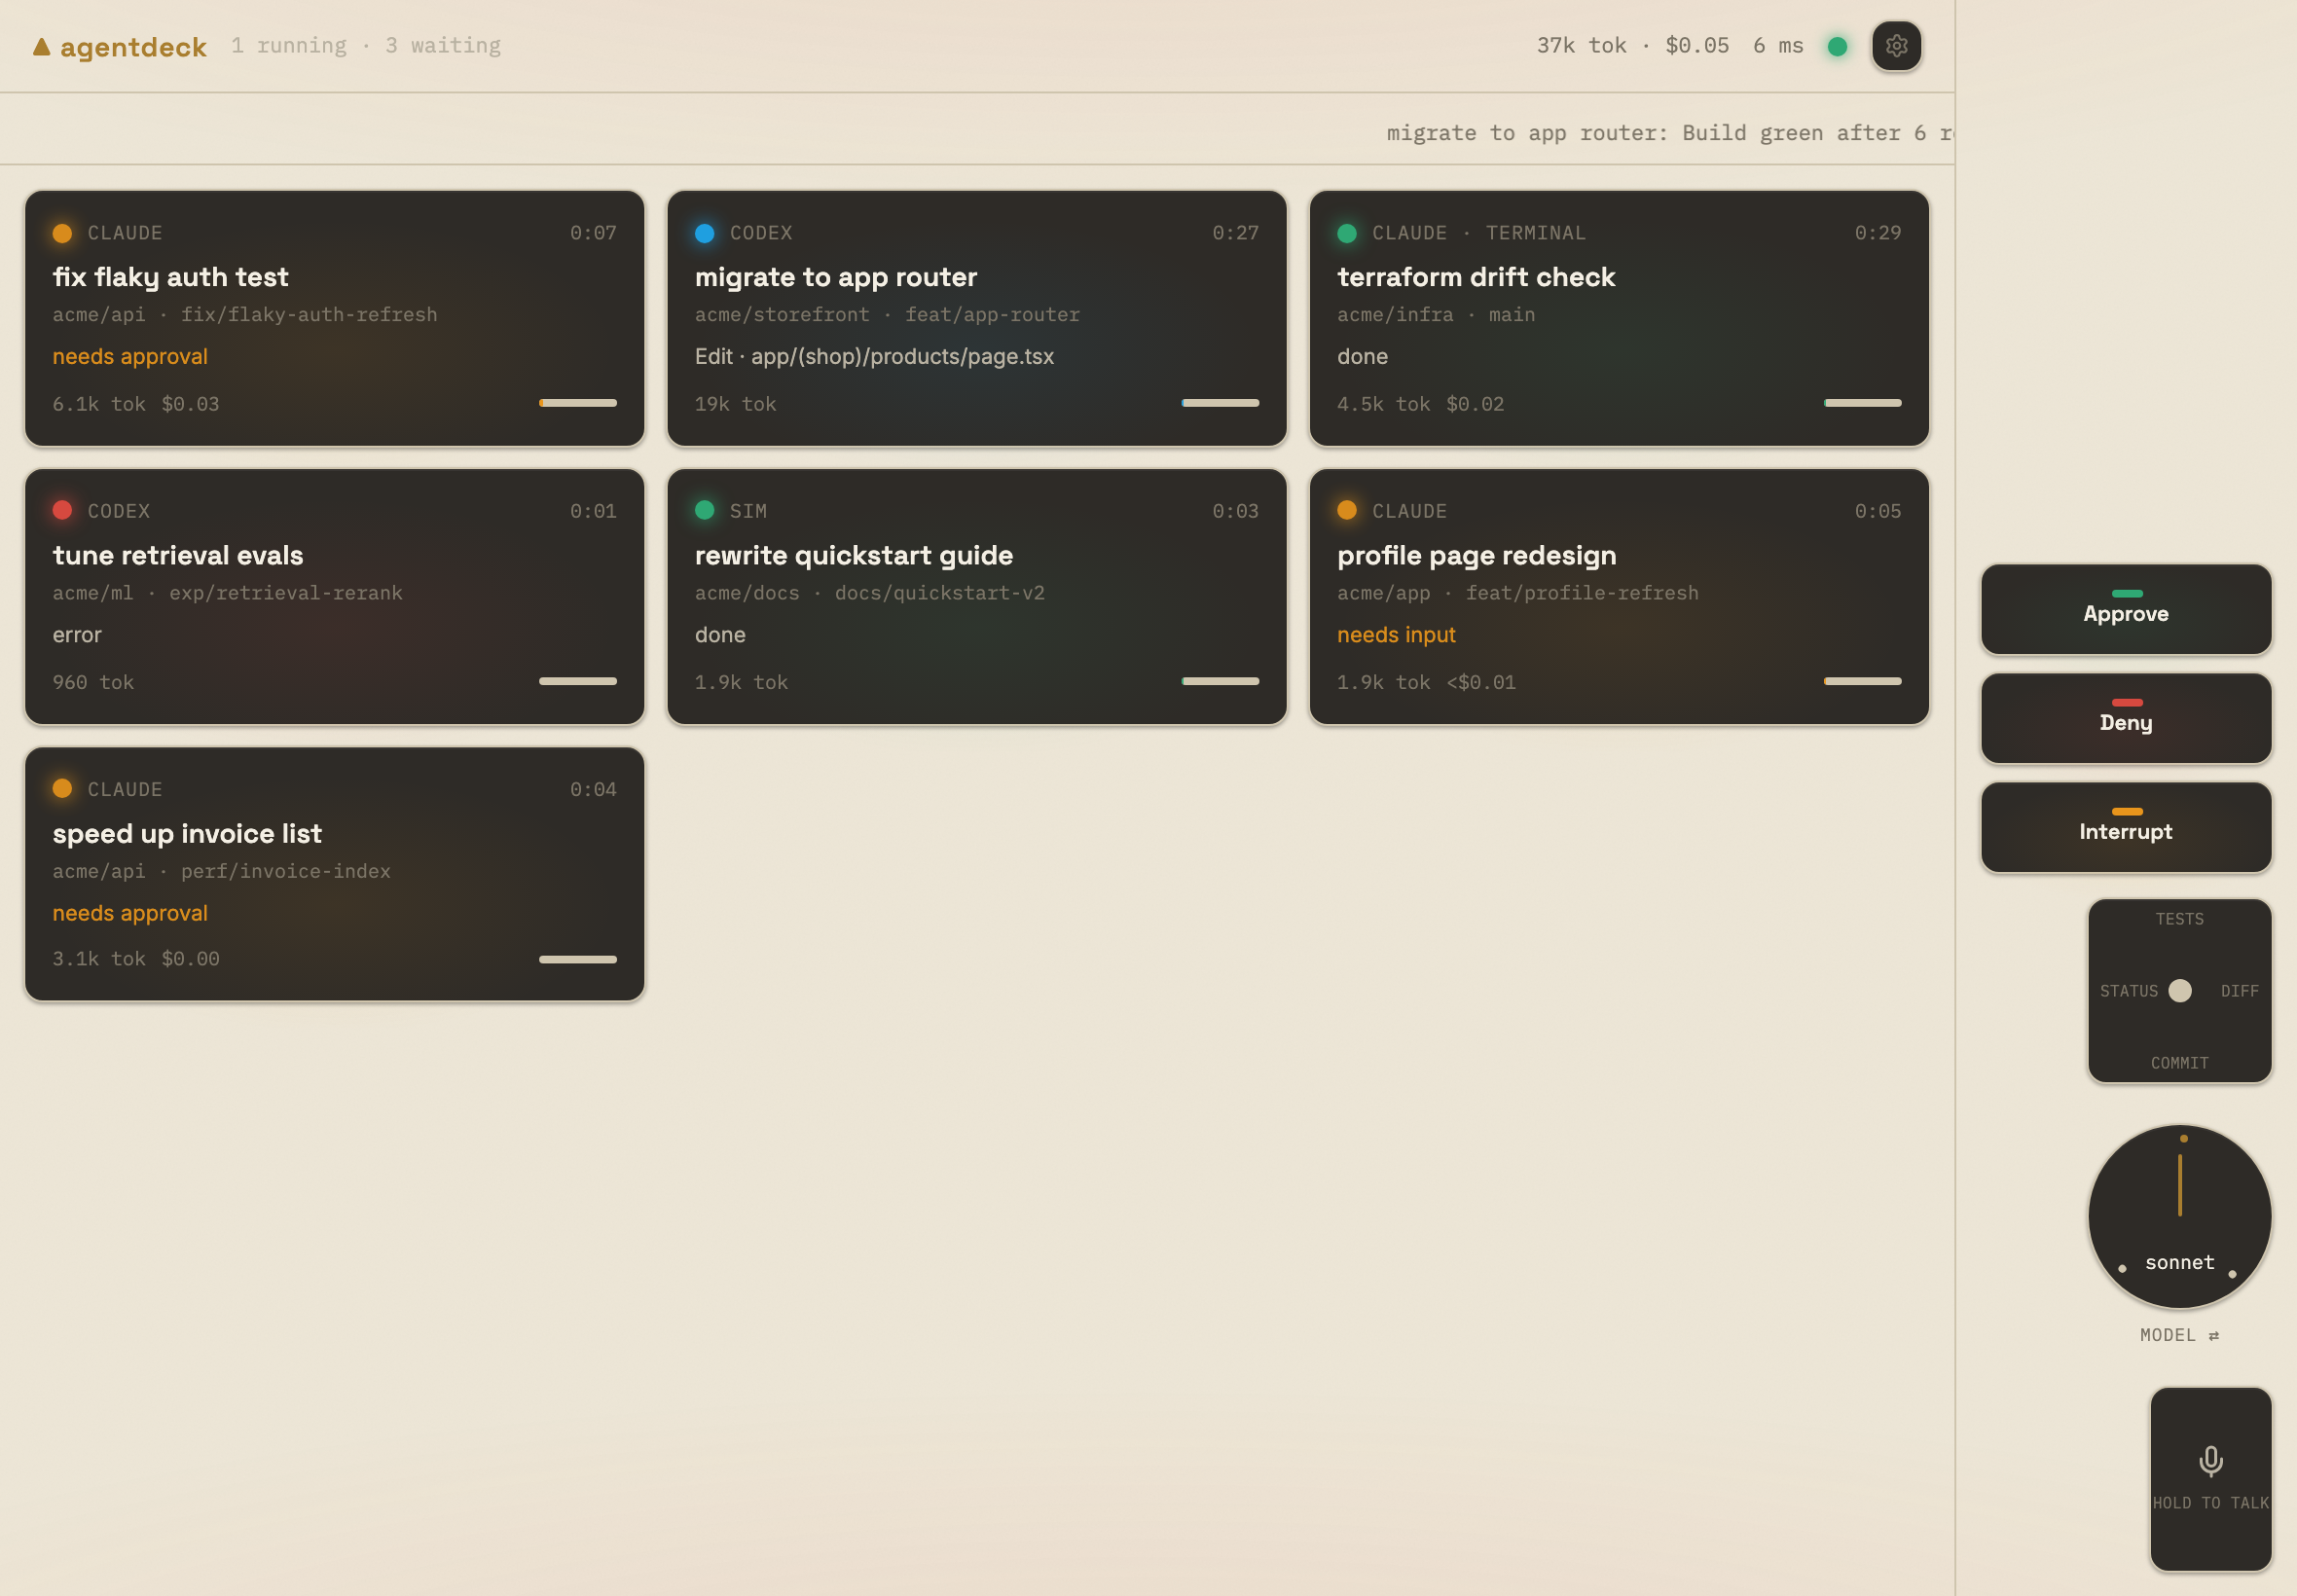
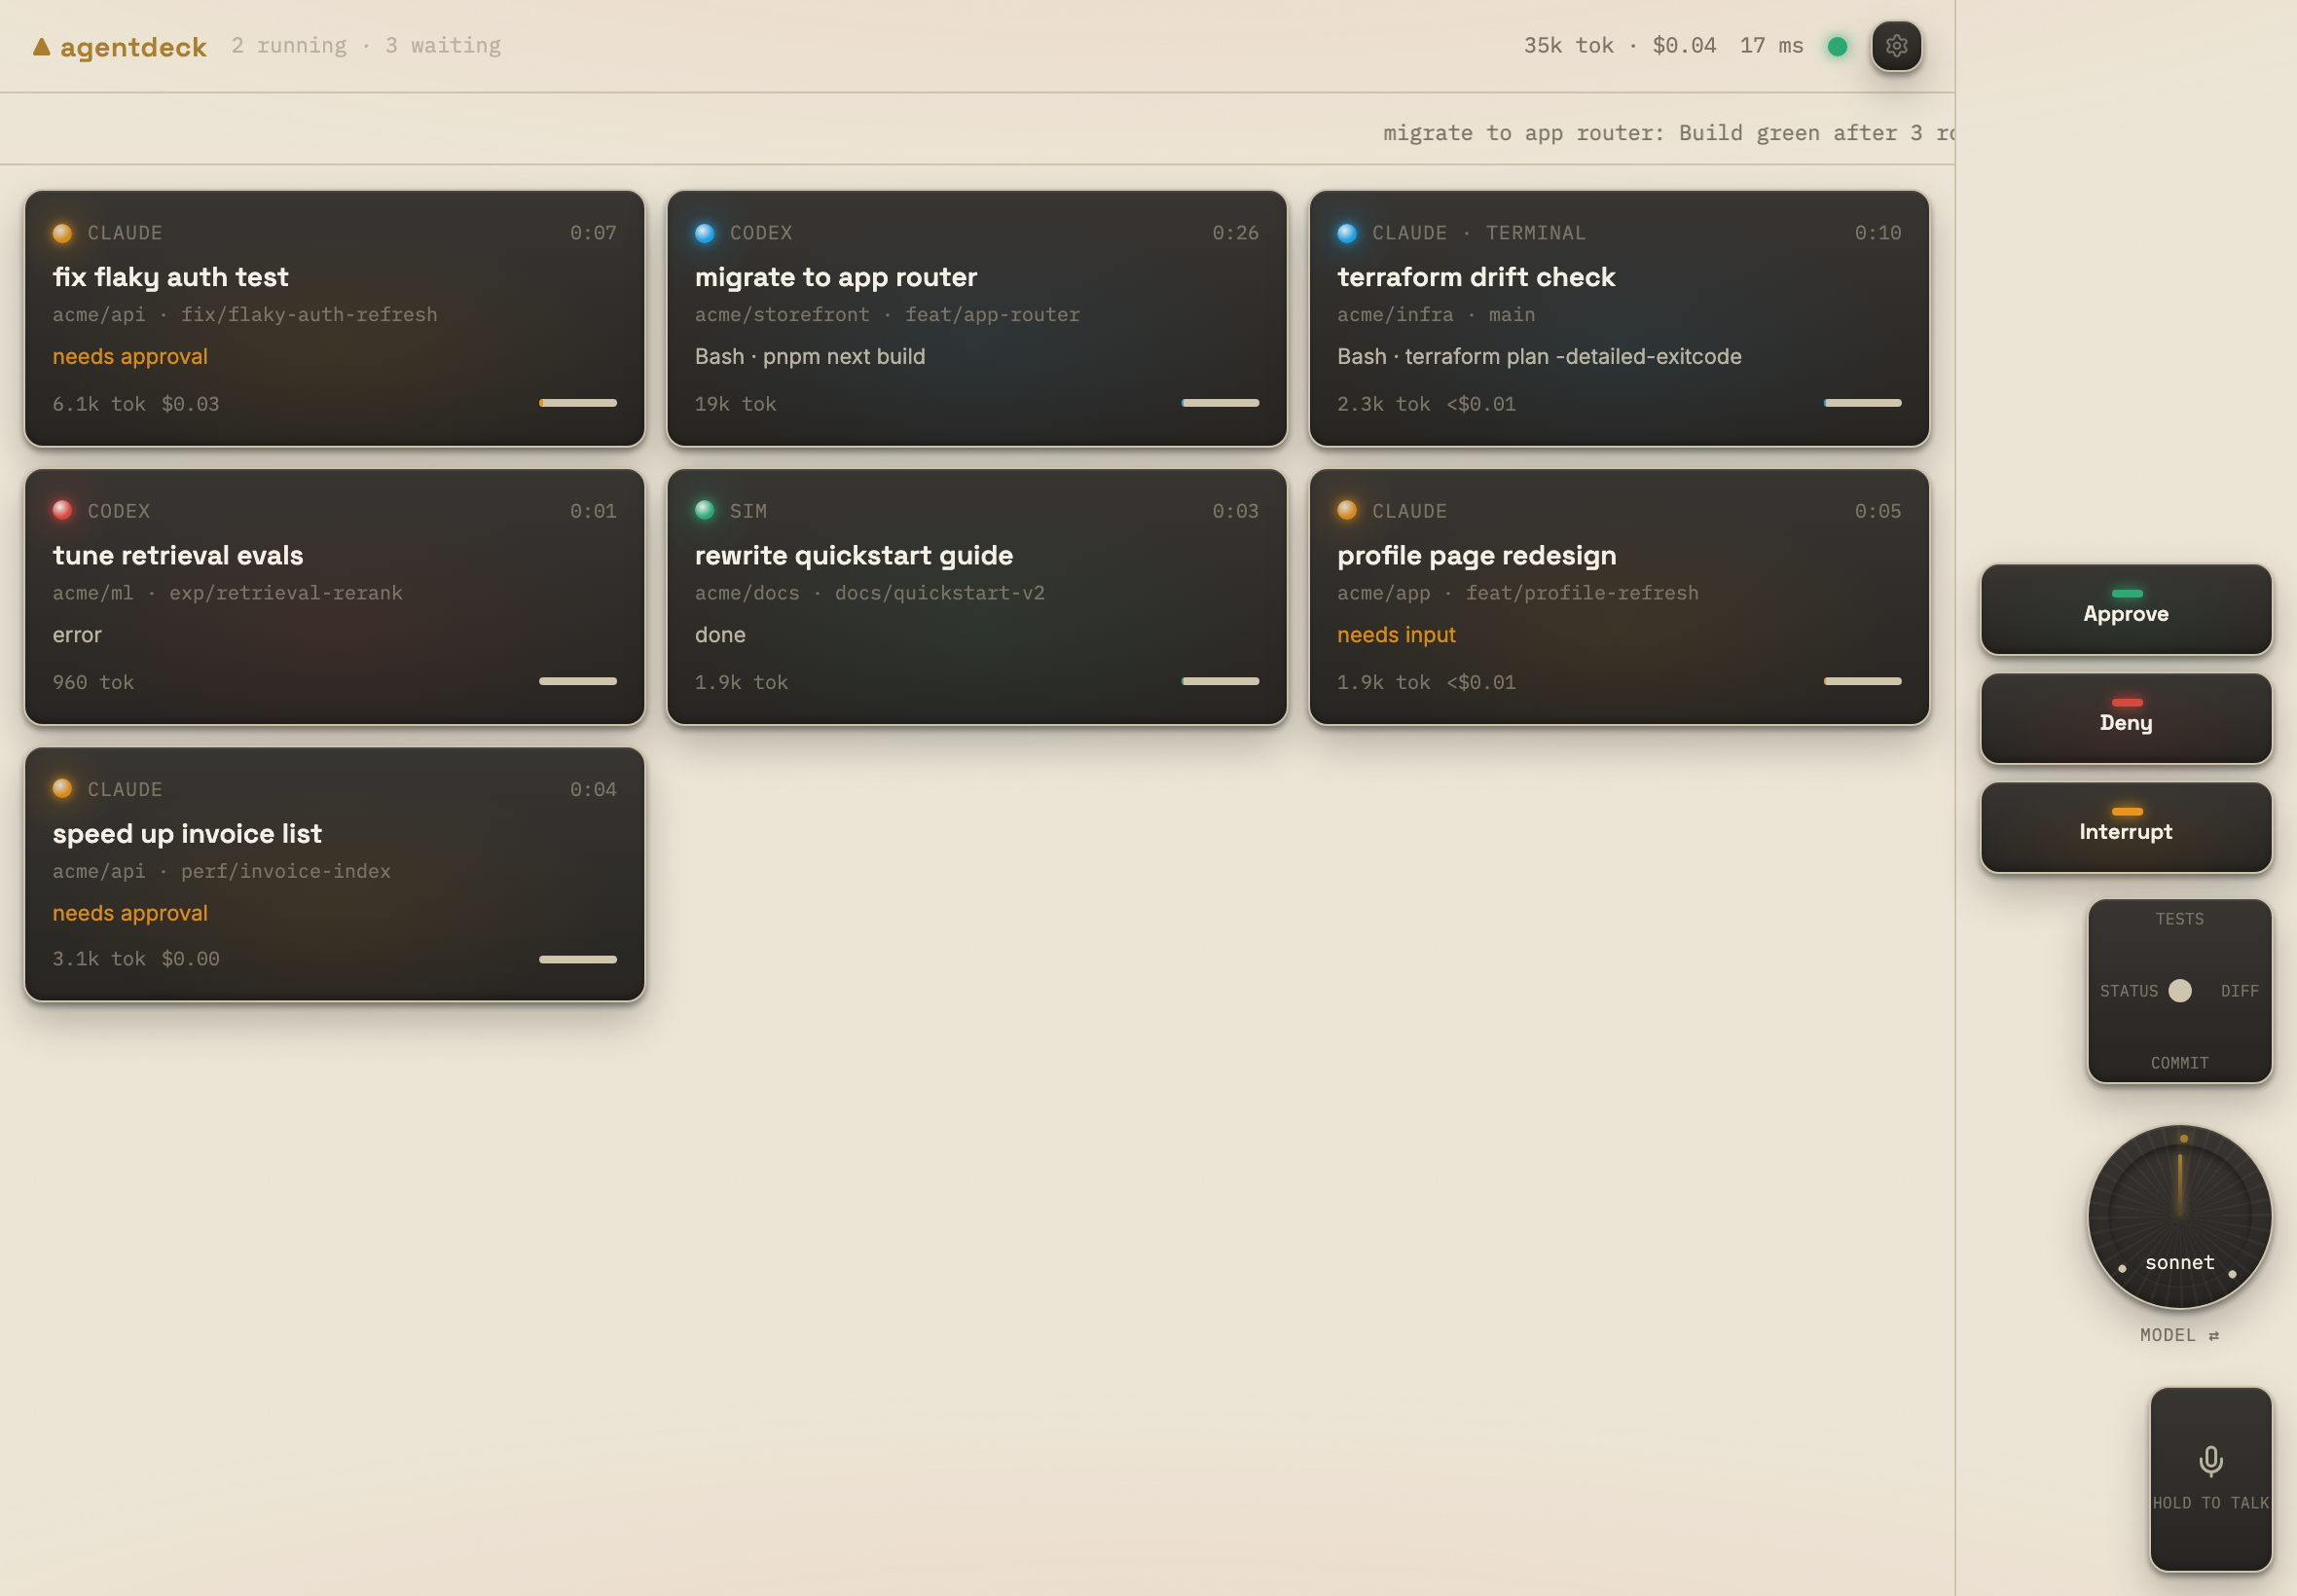
feat: hardware polish — extruded keycaps, led status dots, sprung tiles and dial, multi-device qr reissue

diff --git a/packages/deck/src/widgets/Dial.tsx b/packages/deck/src/widgets/Dial.tsx
@@ -1,4 +1,5 @@
 import type { Session, SetEffortPayload } from '@agentdeck/protocol';
+import { motion, useReducedMotion } from 'motion/react';
 import { useEffect, useMemo, useRef, useState } from 'react';
 import { controller } from '../lib/controller.js';
 import { createCoalescer } from '../lib/coalescer.js';
@@ -94,6 +95,7 @@ export function Dial() {
 
   const dialRef = useRef<HTMLDivElement>(null);
   const dragging = useRef(false);
+  const reduced = useReducedMotion() ?? false;
 
   if (!target || !axis) {
     return (
@@ -165,33 +167,54 @@ export function Dial() {
             setIndex(valueIndex - 1, true);
         }}
       >
+        <span
+          aria-hidden
+          className="pointer-events-none absolute inset-0 rounded-full"
+          style={{
+            background:
+              'repeating-conic-gradient(from 0deg, transparent 0deg 8deg, rgb(255 255 255 / 0.035) 8deg 10deg)',
+          }}
+        />
+        <span
+          aria-hidden
+          className="pointer-events-none absolute inset-2.5 rounded-full"
+          style={{
+            boxShadow: 'inset 0 2px 5px rgb(0 0 0 / 0.45), inset 0 -1px 0 rgb(255 255 255 / 0.05)',
+          }}
+        />
         {axis.values.map((value, index) => {
           const deg =
             START_DEG +
             (axis.values.length === 1
               ? SWEEP_DEG / 2
               : (index / (axis.values.length - 1)) * SWEEP_DEG);
+          const active = index === valueIndex;
           return (
             <span
               key={value}
               aria-hidden
-              className="absolute left-1/2 top-1/2 h-1 w-1 rounded-full"
+              className="status-fade absolute left-1/2 top-1/2 h-1 w-1 rounded-full"
               style={{
-                background: index === valueIndex ? 'var(--brass)' : 'var(--hairline)',
+                background: active ? 'var(--brass)' : 'var(--hairline)',
+                boxShadow: active ? '0 0 6px var(--brass)' : 'none',
                 transform: `rotate(${String(deg)}deg) translateY(-42px)`,
                 transformOrigin: '0 0',
               }}
             />
           );
         })}
-        <span
+        <motion.span
           aria-hidden
-          className="absolute left-1/2 top-1/2 h-8 w-0.5 rounded-full transition-transform duration-100"
+          className="absolute left-1/2 top-1/2 h-8 w-0.5 rounded-full"
           style={{
-            background: 'var(--brass)',
-            transform: `translate(-50%, -100%) rotate(${String(needleDeg)}deg)`,
+            background: 'linear-gradient(180deg, var(--brass), rgb(0 0 0 / 0) 130%)',
+            boxShadow: '0 0 5px rgb(216 179 106 / 0.55)',
+            x: '-50%',
+            y: '-100%',
             transformOrigin: '50% 100%',
           }}
+          animate={{ rotate: needleDeg }}
+          transition={reduced ? { duration: 0 } : { type: 'spring', stiffness: 320, damping: 22 }}
         />
         <span className="font-data absolute inset-x-0 bottom-4 text-center text-[10px] text-ink-1">
           {axis.values[valueIndex]}

diff --git a/packages/hub/src/cli.ts b/packages/hub/src/cli.ts
@@ -29,6 +29,9 @@ async function run(flags: RunFlags): Promise<void> {
     term.line('⚠ Running with --no-auth: anyone on this network can control your agents.');
   }
 
+  // Tokens are one-time (SPEC §8): after each pairing, print a fresh QR so
+  // the next device (the iPad after the phone) scans without a restart.
+  let reissue: (() => void) | undefined;
   const running = await startHub({
     config: configResult.config,
     version: pkg.version,
@@ -37,6 +40,7 @@ async function run(flags: RunFlags): Promise<void> {
     noAuth,
     onPaired: (name) => {
       term.line(`📱 ${name} paired`);
+      reissue?.();
     },
   });
 
@@ -58,6 +62,19 @@ async function run(flags: RunFlags): Promise<void> {
     demo,
     harnessNotes: detections.flatMap((d) => (d.note === undefined ? [] : [d.note])),
   });
+  if (!noAuth) {
+    reissue = () => {
+      printPairingQr(running, 'Next device: scan this fresh code.');
+    };
+    // Tokens expire after ten minutes; keep a scannable code on screen.
+    const refresh = setInterval(
+      () => {
+        printPairingQr(running, 'The previous code expired. This one is fresh.');
+      },
+      9 * 60 * 1000,
+    );
+    refresh.unref();
+  }
 
   const shutdown = (): void => {
     term.line('');
@@ -96,15 +113,20 @@ function printBanner(
     return;
   }
 
+  printPairingQr(running, 'Scan with your phone to pair. The code is valid for 10 minutes;');
+  logger().info({ port: running.port, host: running.host }, 'hub started');
+}
+
+function printPairingQr(running: RunningHub, lead: string): void {
+  const primaryUrl = running.lanUrls[0] ?? `http://localhost:${running.port}`;
   const token = running.pairing.issueToken();
   const pairUrl = `${primaryUrl}/#pair=${token}`;
   qrcode.generate(pairUrl, { small: true }, (qr) => {
     for (const line of qr.split('\n')) term.line(`  ${line}`);
   });
-  term.line('  Scan with your phone to pair. The code is valid for 10 minutes;');
+  term.line(`  ${lead}`);
   term.line(`  or open ${pairUrl}`);
   term.line('');
-  logger().info({ port: running.port, host: running.host }, 'hub started');
 }
 
 function devicesList(): void {

diff --git a/packages/deck/src/styles/app.css b/packages/deck/src/styles/app.css
@@ -78,11 +78,15 @@ body {
 @layer components {
   .keycap {
     background: var(--key-face);
+    background:
+      linear-gradient(180deg, rgb(255 255 255 / 0.05), rgb(0 0 0 / 0.14)), var(--key-face);
     border: 1px solid var(--hairline);
     border-radius: var(--radius-key);
     box-shadow:
-      inset 0 1px 0 rgb(255 255 255 / 0.05),
-      0 1px 2px rgb(0 0 0 / 0.35);
+      inset 0 1px 0 rgb(255 255 255 / 0.08),
+      inset 0 -2px 3px rgb(0 0 0 / 0.25),
+      0 2px 3px rgb(0 0 0 / 0.4),
+      0 10px 22px rgb(0 0 0 / 0.24);
   }
 
   .panel {
@@ -180,6 +184,21 @@ body {
   .deskglow-edges,
   .tile-glow {
     display: none;
+  }
+}
+
+/* Status changes crossfade instead of snapping (SPEC §7.3: 240 ms). */
+.status-fade {
+  transition:
+    color 240ms ease,
+    background-color 240ms ease,
+    box-shadow 240ms ease,
+    opacity 240ms ease;
+}
+
+@media (prefers-reduced-motion: reduce) {
+  .status-fade {
+    transition: none;
   }
 }
 

diff --git a/packages/deck/src/widgets/AgentTile.tsx b/packages/deck/src/widgets/AgentTile.tsx
@@ -1,4 +1,5 @@
 import type { Session } from '@agentdeck/protocol';
+import { motion, useReducedMotion } from 'motion/react';
 import { useEffect, useState } from 'react';
 import { Keycap } from '../components/Keycap.js';
 import { StatusDot, statusColorVar } from '../components/StatusDot.js';
@@ -35,9 +36,20 @@ export function AgentTile({ session, size }: { session: Session; size: TileSize 
   const elapsed = useElapsed(session);
   const color = statusColorVar(session.status);
   const waiting = session.status === 'waiting_input' || session.status === 'waiting_permission';
+  const reduced = useReducedMotion() ?? false;
 
   return (
-    <div className="relative">
+    <motion.div
+      className="relative"
+      layout={!reduced}
+      {...(reduced
+        ? {}
+        : {
+            initial: { opacity: 0, y: 16, scale: 0.95 },
+            animate: { opacity: 1, y: 0, scale: 1 },
+            transition: { type: 'spring', duration: 0.5, bounce: 0.22 },
+          })}
+    >
       <Keycap
         glow={color}
         className={`w-full text-left ${size === 'S' ? 'p-2.5' : 'p-3.5'}`}
@@ -78,7 +90,7 @@ export function AgentTile({ session, size }: { session: Session; size: TileSize 
         )}
 
         <p
-          className={`mt-1.5 truncate text-[11px] ${waiting ? 'pulse-waiting' : ''}`}
+          className={`status-fade mt-1.5 truncate text-[11px] ${waiting ? 'pulse-waiting' : ''}`}
           style={{ color: waiting ? color : 'var(--ink-2)' }}
         >
           {waiting ||
@@ -103,7 +115,7 @@ export function AgentTile({ session, size }: { session: Session; size: TileSize 
             style={{ background: 'var(--hairline)' }}
           >
             <span
-              className="block h-full rounded-full"
+              className="status-fade block h-full rounded-full"
               style={{
                 width: `${String(Math.min(100, ((session.stats.costUsd ?? session.stats.outputTokens / 100_000) / 0.5) * 100))}%`,
                 background: color,
@@ -133,6 +145,6 @@ export function AgentTile({ session, size }: { session: Session; size: TileSize 
           </button>
         </div>
       )}
-    </div>
+    </motion.div>
   );
 }

diff --git a/packages/deck/src/components/StatusDot.tsx b/packages/deck/src/components/StatusDot.tsx
@@ -25,16 +25,26 @@ export function statusPulseClass(status: SessionStatus): string {
   return '';
 }
 
+/**
+ * An LED under frosted plastic, not a flat circle: a white-hot core inside
+ * the status color with a tight halo and a wide soft bloom.
+ */
 export function StatusDot({ status, size = 10 }: { status: SessionStatus; size?: number }) {
+  const color = statusColorVar(status);
+  const lit = status !== 'idle' && status !== 'disconnected';
   return (
     <span
       aria-hidden
-      className={`inline-block rounded-full ${statusPulseClass(status)}`}
+      className={`status-fade inline-block rounded-full ${statusPulseClass(status)}`}
       style={{
         width: size,
         height: size,
-        background: statusColorVar(status),
-        boxShadow: `0 0 ${String(size)}px ${statusColorVar(status)}`,
+        background: lit
+          ? `radial-gradient(circle at 38% 34%, rgb(255 255 255 / 0.9), ${color} 58%)`
+          : color,
+        boxShadow: lit
+          ? `0 0 ${String(size * 0.6)}px ${color}, 0 0 ${String(size * 2.2)}px ${color}`
+          : 'inset 0 1px 2px rgb(0 0 0 / 0.4)',
       }}
     />
   );

diff --git a/packages/deck/src/widgets/ActionKey.tsx b/packages/deck/src/widgets/ActionKey.tsx
@@ -64,8 +64,11 @@ export function ActionKey({ binding }: { binding: ActionKeyBinding }) {
       <span className="flex h-full flex-col items-center justify-center gap-0.5">
         <span
           aria-hidden
-          className="h-1 w-4 rounded-full"
-          style={{ background: accent ?? 'var(--hairline)' }}
+          className="status-fade h-1 w-4 rounded-full"
+          style={{
+            background: accent ?? 'var(--hairline)',
+            boxShadow: accent !== undefined && !disabled ? `0 0 7px ${accent}` : 'none',
+          }}
         />
         <span className="font-display text-[11px] leading-tight text-ink-1">
           {armed ? 'Confirm?' : binding.label}